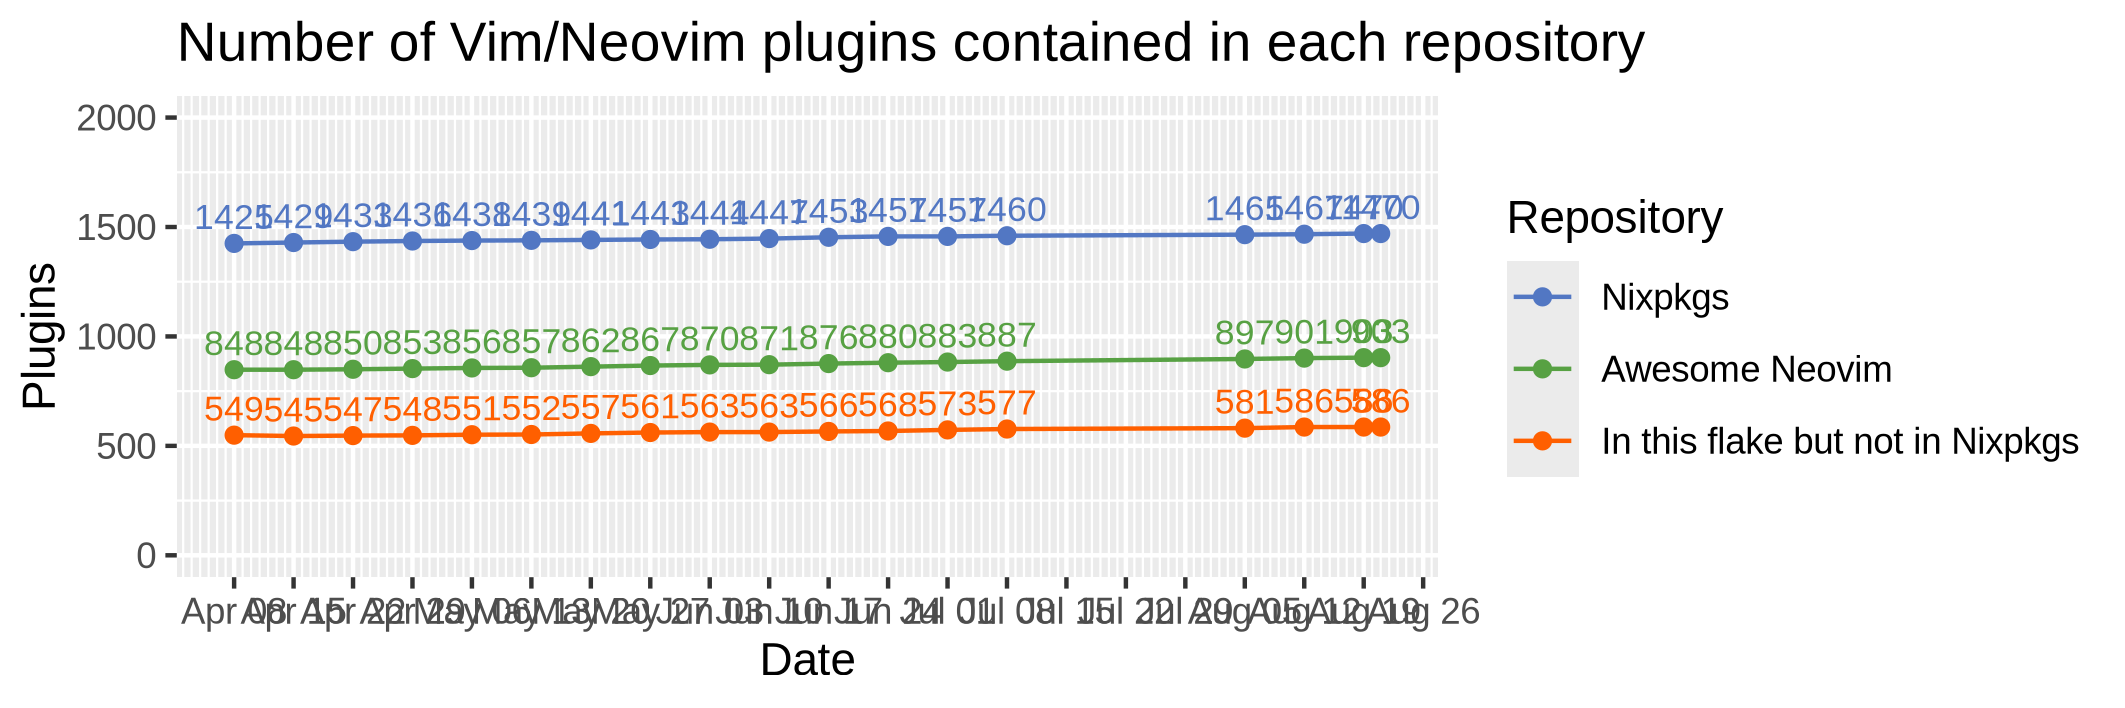
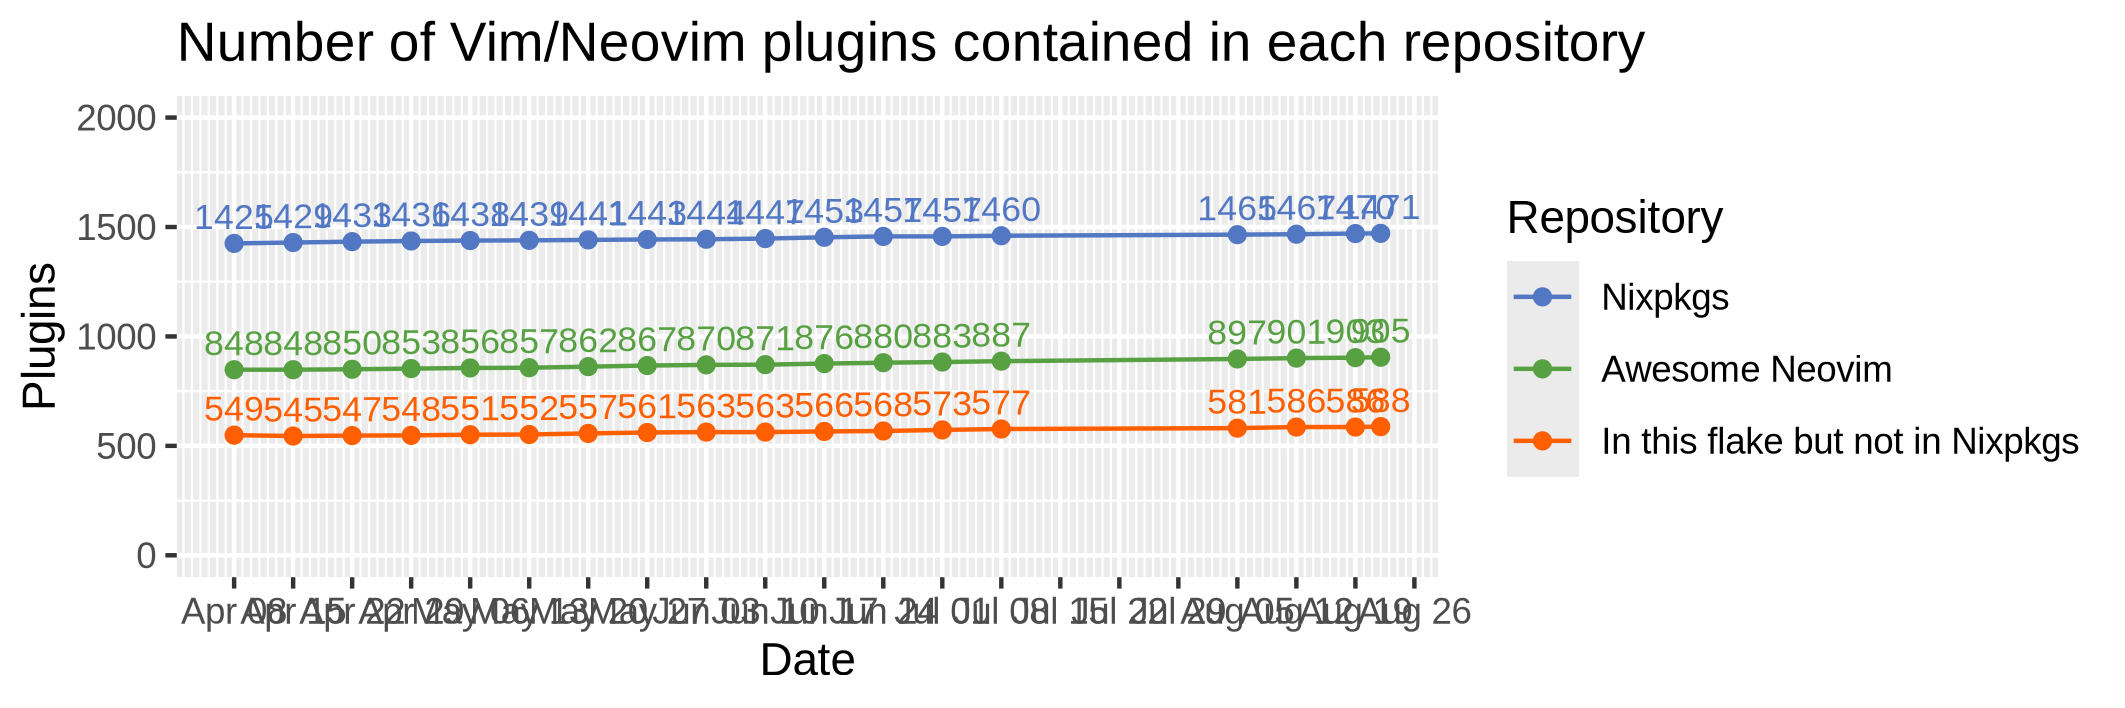
auto: update vim plugins

diff --git a/README.md b/README.md
@@ -8,7 +8,7 @@ Nix flake of Awesome Neovim plugins.
 
 [b1]: https://img.shields.io/github/actions/workflow/status/m15a/flake-awesome-neovim-plugins/check.yml?style=flat-square&logo=github&label=CI
 [b2]: https://github.com/m15a/flake-awesome-neovim-plugins/actions/workflows/check.yml
-[b3]: https://img.shields.io/badge/Awesome_Neovim_plugins-903-57A143?style=flat-square
+[b3]: https://img.shields.io/badge/Awesome_Neovim_plugins-905-57A143?style=flat-square
 [b4]: https://img.shields.io/endpoint?url=https://flakehub.com/f/m15a/flake-awesome-neovim-plugins/badge&style=flat-square
 [b5]: https://flakehub.com/flake/m15a/flake-awesome-neovim-plugins
 
